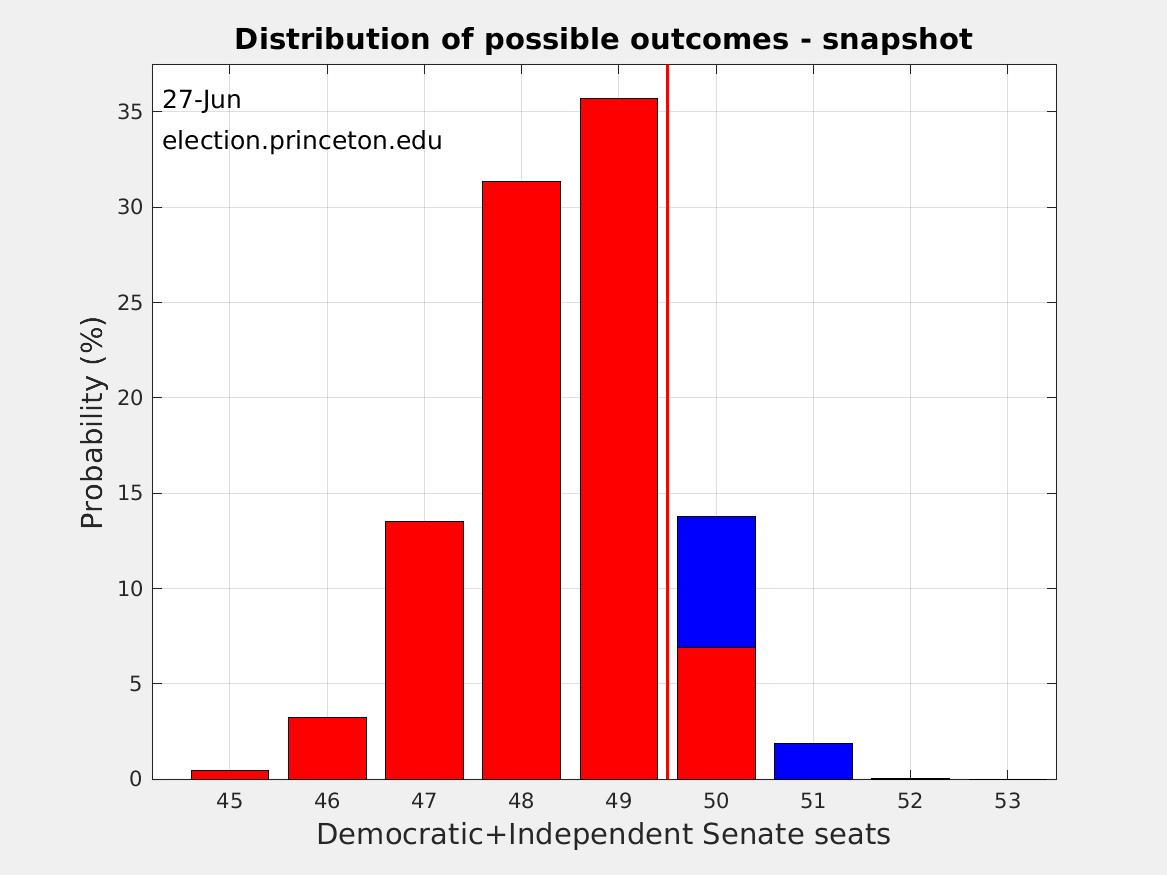
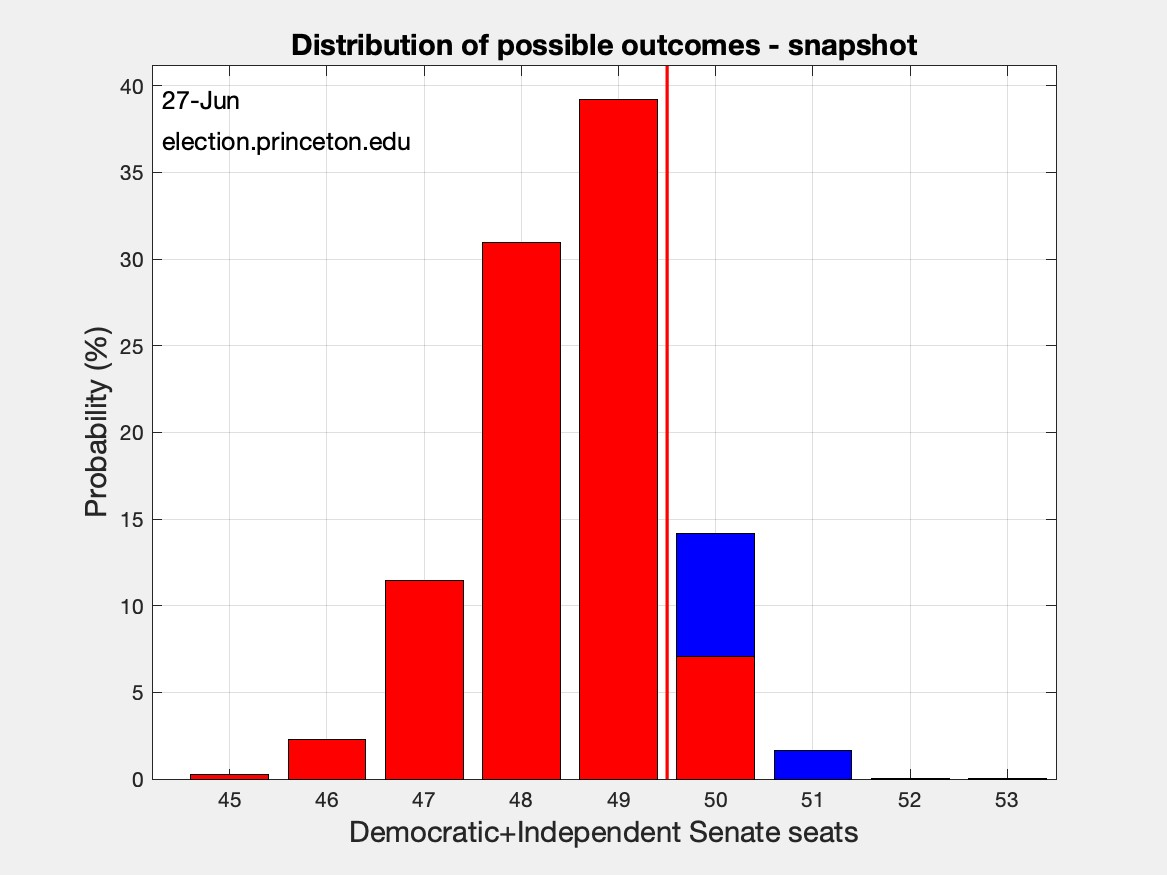
Changed winning threshold for Senate_jerseryvotes.m

diff --git a/matlab/Senate_jerseyvotes.m b/matlab/Senate_jerseyvotes.m
@@ -41,6 +41,9 @@ nowdensity=nowdensity/sum(nowdensity);
 
 jerseyv_accumulator=zeros(1,num_states);
 
+% Phousawanh 2024-06-27 
+% Changed Senate seat cutoff from 51 -> 50
+
 for ii=length(Mrange)
     polls.margin=polls.margin+Mrange(ii); % set polls to one possible amount of drift
 
@@ -49,13 +52,13 @@ for ii=length(Mrange)
         biaspct=-metamargin; % changed on 8/8/08 to reflect discussion w/reader James
     end
     Senate_median
-    midpoint=cumulative_prob(min(find(Senateseats>=51))); % P(Dem control) under knife-edge conditions
+    midpoint=cumulative_prob(min(find(Senateseats>=50))); % P(Dem control) under knife-edge conditions
 
     clear difference
     for state=1:num_states
         polls.margin(state)=polls.margin(state)-0.1; % perturb one poll by 0.1 percentage point
         Senate_median
-        probability_GOP_win=cumulative_prob(min(find(Senateseats>=51)));
+        probability_GOP_win=cumulative_prob(min(find(Senateseats>=50)));
         difference(state)=(probability_GOP_win-midpoint)*10000; % how much is P(Dem control) changed?
         polls.margin(state)=polls.margin(state)+0.1; % put the poll back where it was
     end

diff --git a/matlab/Senate_median.m b/matlab/Senate_median.m
@@ -7,12 +7,13 @@
 %    use EV variable to give 1 seat per race (keep variable name same)
 %
 % Calculate z-score and convert to probability, assuming normal distribution.
+% Changed df of t distribution to be 3
 polls.z=(polls.margin+biaspct)./polls.SEM;
-polls.prob_Dem_win=tcdf(polls.z,2); % polls.prob_Dem_win=(erf(polls.z/sqrt(2))+1)/2;
+polls.prob_Dem_win=tcdf(polls.z,3); % polls.prob_Dem_win=(erf(polls.z/sqrt(2))+1)/2;
 polls.prob_GOP_win=1-polls.prob_Dem_win;
 %
 polls.znov=(polls.margin+biaspct)./sqrt(polls.SEM.*polls.SEM+5*5);
-polls.prob_Dem_November=tcdf(polls.znov,2);
+polls.prob_Dem_November=tcdf(polls.znov,3);
 %polls.prob_Dem_November=(erf(polls.znov/sqrt(2))+1)/2;
 %
 stateprobs=round(polls.prob_Dem_win*100);
